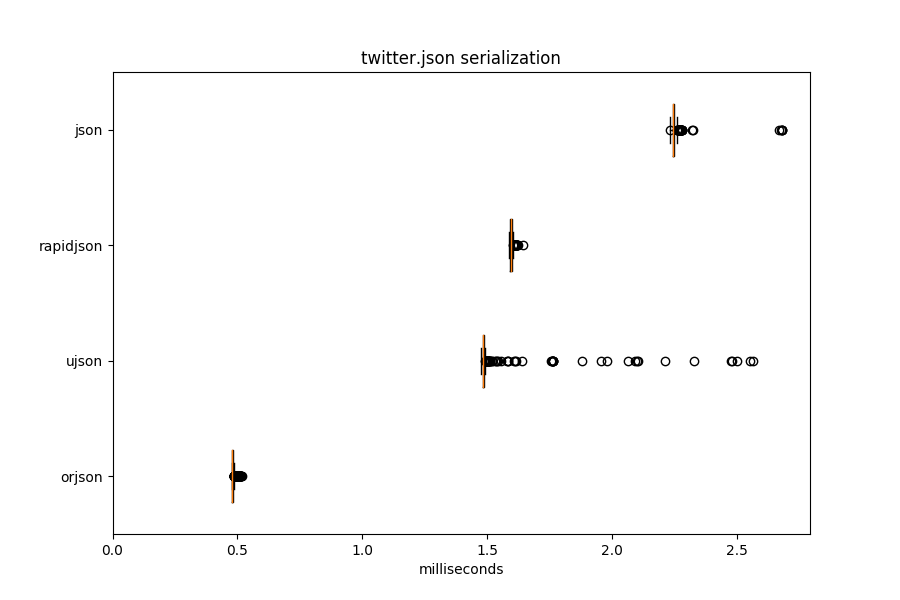
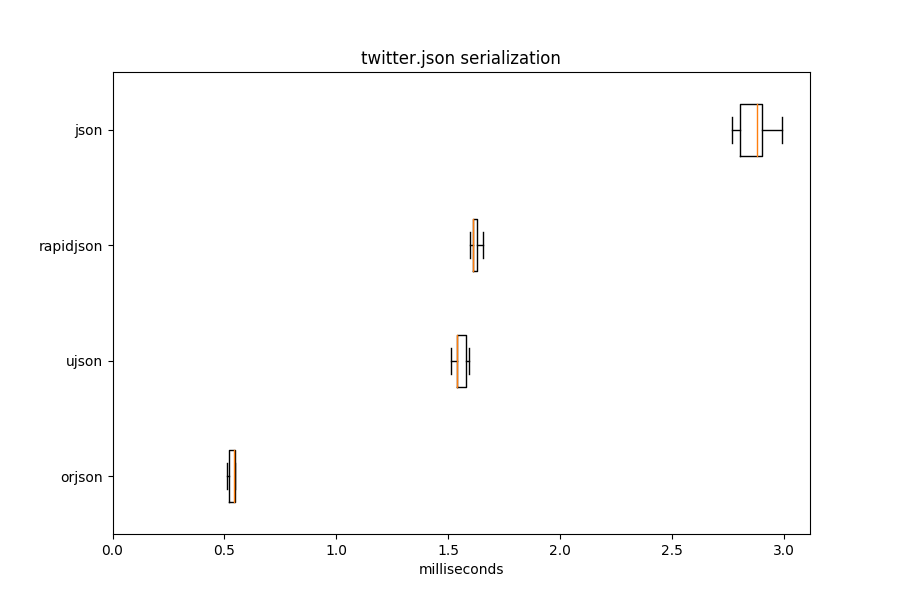
2.0.0

diff --git a/README.md b/README.md
@@ -6,7 +6,7 @@ interoperability tests.
 
 Its serialization performance is 2x to 3x the nearest
 other library and 4.5x to 11.5x the standard library. Its deserialization
-performance is 1.05x to 1.2x the nearest other library and 1.2x to 4x
+performance is 0.95x to 1.1x the nearest other library and 1.2x to 3x
 the standard library.
 
 It differs in behavior from other Python JSON libraries in supporting
@@ -17,7 +17,7 @@ conformance on NaN/Infinity/-Infinity, having an option for strict
 JSON conformance on 53-bit integers, not supporting pretty
 printing, and not supporting all standard library options.
 
-It supports CPython 3.6 and 3.7.
+It supports CPython 3.6 and 3.7 and distributes wheels for Linux and macOS.
 
 ## Usage
 
@@ -52,15 +52,17 @@ def dumps(obj: Any, default=Optional[Callable[Any]], option=Optional[int]) -> by
 It natively serializes
 `str`, `dict`, `list`, `tuple`, `int`, `float`, `datetime.datetime`,
 `datetime.date`, `datetime.time`, and `None` instances. It supports
-arbitrary types through `default`.
+arbitrary types through `default`. It does not serialize subclasses of
+supported types natively, but `default` may be used.
 
-It does not serialize
-subclasses of supported types natively, but `default` may be used.
+It accepts options via an `option` keyword argument. These include:
 
-It accepts options via an `option` keyword argument. These include
-`orjson.OPT_STRICT_INTEGER` for enforcing a 53-bit limit on integers
-and `orjson.OPT_NAIVE_UTC` for assuming `datetime.datetime` objects without a
-`tzinfo` are UTC. Specify multiple options by masking them together, e.g.,
+- `orjson.OPT_STRICT_INTEGER` for enforcing a 53-bit limit on integers. The
+limit is otherwise 64 bits, the same as the Python standard library.
+- `orjson.OPT_NAIVE_UTC` for assuming `datetime.datetime` objects without a
+`tzinfo` are UTC.
+
+To specify multiple options, mask them together, e.g.,
 `option=orjson.OPT_STRICT_INTEGER | orjson.OPT_NAIVE_UTC`.
 
 It raises `JSONEncodeError` on an unsupported type. This exception message
@@ -68,8 +70,8 @@ describes the invalid object.
 
 It raises `JSONEncodeError` on a `str` that contains invalid UTF-8.
 
-It raises `JSONEncodeError` on an integer that exceeds 64 bits. This is the same
-as the standard library's `json` module.
+It raises `JSONEncodeError` on an integer that exceeds 64 bits by default or,
+with `OPT_STRICT_INTEGER`, 53 bits.
 
 It raises `JSONEncodeError` if a `dict` has a key of a type other than `str`.
 
@@ -297,76 +299,76 @@ format, containing floats and arrays, indented.
 
 | Library   |   Median latency (milliseconds) |   Operations per second |   Relative (latency) |
 |-----------|---------------------------------|-------------------------|----------------------|
-| orjson    |                            0.48 |                  2077.6 |                 1    |
-| ujson     |                            1.48 |                   664.6 |                 3.09 |
-| rapidjson |                            1.59 |                   626.5 |                 3.32 |
-| json      |                            2.24 |                   443.9 |                 4.68 |
+| orjson    |                            0.54 |                  1872.9 |                 1    |
+| ujson     |                            1.54 |                   643.9 |                 2.84 |
+| rapidjson |                            1.61 |                   617.3 |                 2.97 |
+| json      |                            2.88 |                   348.5 |                 5.32 |
 
 #### twitter.json deserialization
 
 | Library   |   Median latency (milliseconds) |   Operations per second |   Relative (latency) |
 |-----------|---------------------------------|-------------------------|----------------------|
-| orjson    |                            2.38 |                   418.8 |                 1    |
-| ujson     |                            2.67 |                   373   |                 1.12 |
-| rapidjson |                            2.78 |                   359.5 |                 1.16 |
-| json      |                            2.77 |                   359.7 |                 1.16 |
+| orjson    |                            2.49 |                   400.8 |                 1    |
+| ujson     |                            2.4  |                   403.2 |                 0.96 |
+| rapidjson |                            3.14 |                   319.8 |                 1.26 |
+| json      |                            3.12 |                   319.3 |                 1.25 |
 
 #### github.json serialization
 
 | Library   |   Median latency (milliseconds) |   Operations per second |   Relative (latency) |
 |-----------|---------------------------------|-------------------------|----------------------|
-| orjson    |                            0.06 |                 17745   |                 1    |
-| ujson     |                            0.14 |                  7107.1 |                 2.49 |
-| rapidjson |                            0.16 |                  6253.9 |                 2.86 |
-| json      |                            0.25 |                  3972.5 |                 4.49 |
+| orjson    |                            0.06 |                 17981.3 |                 1    |
+| ujson     |                            0.14 |                  6954.3 |                 2.57 |
+| rapidjson |                            0.17 |                  5945.4 |                 3.04 |
+| json      |                            0.25 |                  4067.5 |                 4.43 |
 
 #### github.json deserialization
 
 | Library   |   Median latency (milliseconds) |   Operations per second |   Relative (latency) |
 |-----------|---------------------------------|-------------------------|----------------------|
-| orjson    |                            0.2  |                  4929.7 |                 1    |
-| ujson     |                            0.22 |                  4605.2 |                 1.08 |
-| rapidjson |                            0.24 |                  4166.5 |                 1.19 |
-| json      |                            0.24 |                  4150.8 |                 1.19 |
+| orjson    |                            0.21 |                  4806.2 |                 1    |
+| ujson     |                            0.23 |                  4316.7 |                 1.12 |
+| rapidjson |                            0.27 |                  3723   |                 1.3  |
+| json      |                            0.26 |                  3615.6 |                 1.25 |
 
 #### citm_catalog.json serialization
 
 | Library   |   Median latency (milliseconds) |   Operations per second |   Relative (latency) |
 |-----------|---------------------------------|-------------------------|----------------------|
-| orjson    |                            0.76 |                  1302   |                 1    |
-| ujson     |                            2.58 |                   387.2 |                 3.38 |
-| rapidjson |                            2.37 |                   421.1 |                 3.11 |
-| json      |                            5.41 |                   184.4 |                 7.09 |
+| orjson    |                            0.84 |                  1194.9 |                 1    |
+| ujson     |                            2.76 |                   362   |                 3.3  |
+| rapidjson |                            2.46 |                   404.3 |                 2.94 |
+| json      |                            6.16 |                   161.5 |                 7.36 |
 
 #### citm_catalog.json deserialization
 
 | Library   |   Median latency (milliseconds) |   Operations per second |   Relative (latency) |
 |-----------|---------------------------------|-------------------------|----------------------|
-| orjson    |                            4.28 |                   233.1 |                 1    |
-| ujson     |                            5.06 |                   197.2 |                 1.18 |
-| rapidjson |                            5.82 |                   171.7 |                 1.36 |
-| json      |                            5.81 |                   171.8 |                 1.36 |
+| orjson    |                            4.92 |                   202.2 |                 1    |
+| ujson     |                            5.02 |                   198.3 |                 1.02 |
+| rapidjson |                            6.28 |                   162.6 |                 1.28 |
+| json      |                            6.19 |                   160.5 |                 1.26 |
 
 #### canada.json serialization
 
 | Library   |   Median latency (milliseconds) |   Operations per second |   Relative (latency) |
 |-----------|---------------------------------|-------------------------|----------------------|
-| orjson    |                            4.04 |                   247.7 |                 1    |
-| ujson     |                            8.43 |                   118.6 |                 2.09 |
-| rapidjson |                           43.93 |                    22.7 |                10.88 |
-| json      |                           47.23 |                    21.1 |                11.7  |
+| orjson    |                            4.41 |                   228.6 |                 1    |
+| ujson     |                            9.1  |                   109.5 |                 2.06 |
+| rapidjson |                           44.72 |                    22   |                10.14 |
+| json      |                           50.72 |                    19.7 |                11.5  |
 
 #### canada.json deserialization
 
 | Library   |   Median latency (milliseconds) |   Operations per second |   Relative (latency) |
 |-----------|---------------------------------|-------------------------|----------------------|
-| orjson    |                            6.69 |                   147.6 |                 1    |
-| ujson     |                            7.17 |                   139.4 |                 1.07 |
-| rapidjson |                           26.77 |                    37.4 |                 4    |
-| json      |                           26.59 |                    37.6 |                 3.97 |
+| orjson    |                            9.38 |                   106.5 |                 1    |
+| ujson     |                            9.16 |                   108.7 |                 0.98 |
+| rapidjson |                           30.3  |                    33.1 |                 3.23 |
+| json      |                           28.69 |                    35   |                 3.12 |
 
 
-This was measured using orjson 1.3.0 on Python 3.7.2 and Linux.
+This was measured using orjson 2.0.0 on Python 3.7.2 and Linux.
 
 The results can be reproduced using the `pybench` and `graph` scripts.
 

diff --git a/CHANGELOG.md b/CHANGELOG.md
@@ -1,5 +1,23 @@
 # Changelog
 
+## 2.0.0 - 2019-01-28
+
+### Added
+
+- `orjson.dumps()` accepts a `default` callable to serialize arbitrary
+types.
+- `orjson.dumps()` accepts `datetime.datetime`, `datetime.date`,
+and `datetime.time`. Each is serialized to an RFC 3339 string.
+- `orjson.dumps(..., option=orjson.OPT_NAIVE_UTC)` allows serializing
+`datetime.datetime` objects that do not have a timezone set as UTC.
+- `orjson.dumps(..., option=orjson.OPT_STRICT_INTEGER)` available to
+raise an error on integer values outside the 53-bit range of all JSON
+implementations.
+
+### Changed
+
+- `orjson.dumps()` no longer accepts `bytes`.
+
 ## 1.3.1 - 2019-01-03
 
 ### Fixed
